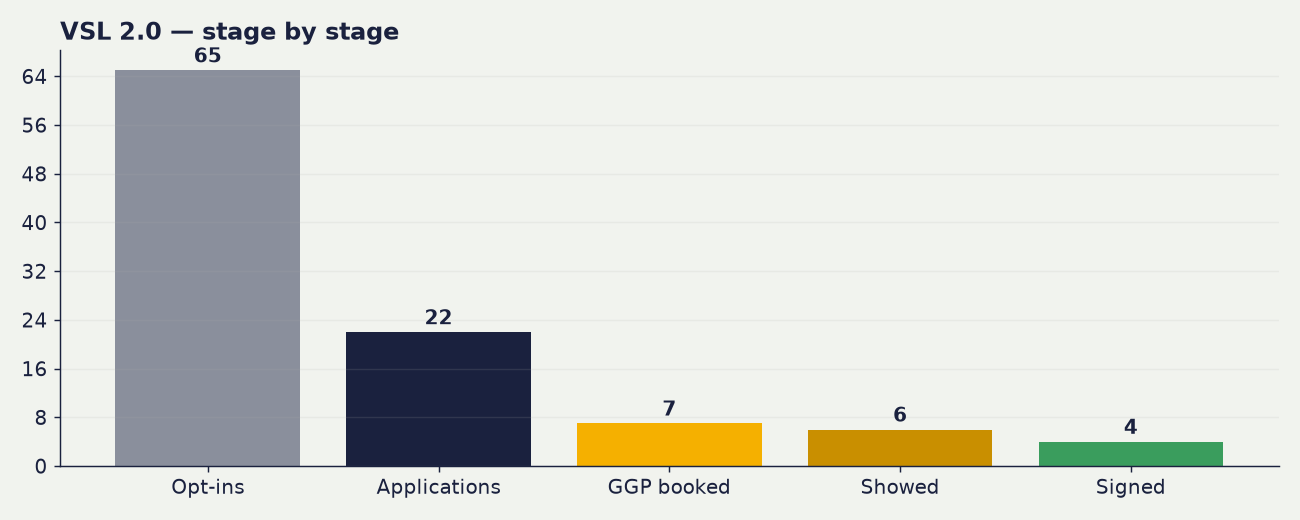
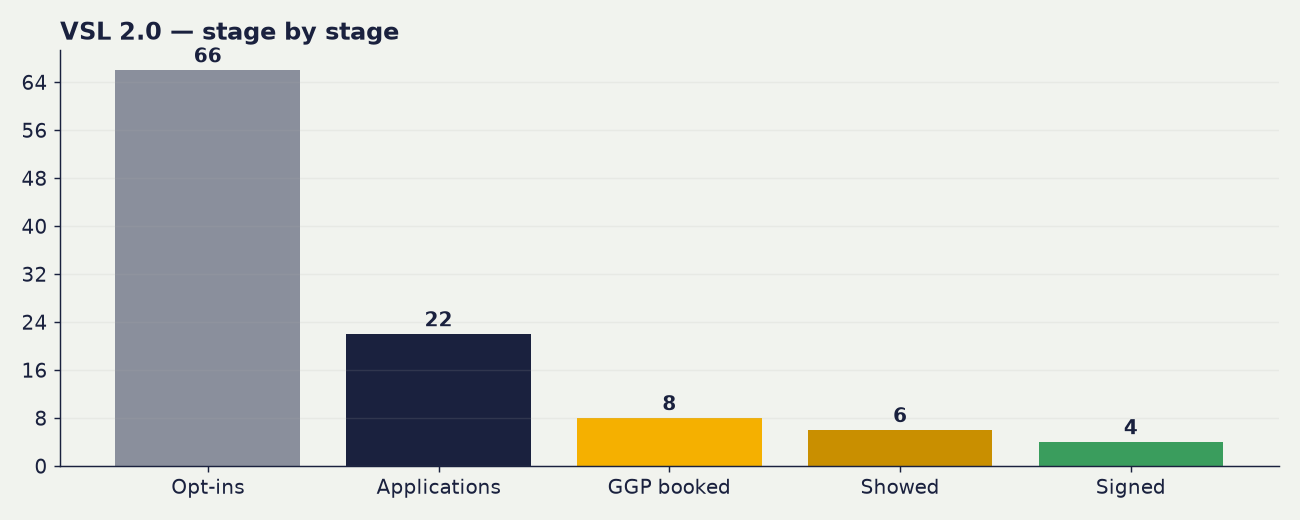
nightly dashboard update 2026-10-04 03:22

diff --git a/content/index.md b/content/index.md
@@ -1,17 +1,17 @@
 # 📈 VSL Funnel Dashboard
 
-_Signups from Stripe (live API). Show-ups from the SBC team Tick Sheet. Spend from Meta. Updated 3 Oct 2026, 03:22 BST, rebuilds nightly._
+_Signups from Stripe (live API). Show-ups from the SBC team Tick Sheet. Spend from Meta. Updated 4 Oct 2026, 03:22 BST, rebuilds nightly._
 
 ## 🎯 The headline — both funnels combined
 
 | | |
 |---|---|
-| **Blended CPA** | **£610** |
-| Total spend | **£8,534.84** |
+| **Blended CPA** | **£621** |
+| Total spend | **£8,691.18** |
 | Total signups | **14** |
 | Who signed | Adam Luke, Alexandru Mardari, C Beech, Conor, Daniel  Steer, Georgia, Harry, Joe Gray-Misiuk, Kirstie Hall, Matt, Musa Rahat, Ross gibbins, Tarik Merrett, Zeeshan Ahmed |
 
-> £8,535 spent → 14 signed = **£610 blended cost per signup.** VSL 1.0 (mass avatar) and VSL 2.0 (upgraded avatar) share the load: cheap high-volume + premium low-volume blend into one true acquisition cost.
+> £8,691 spent → 14 signed = **£621 blended cost per signup.** VSL 1.0 (mass avatar) and VSL 2.0 (upgraded avatar) share the load: cheap high-volume + premium low-volume blend into one true acquisition cost.
 
 ---
 
@@ -19,13 +19,13 @@ _Signups from Stripe (live API). Show-ups from the SBC team Tick Sheet. Spend fr
 
 | Metric | VSL 1.0 | VSL 2.0 | Combined |
 |---|---|---|---|
-| 🎯 **CPA** | **£581** | **£682** | **£610** |
+| 🎯 **CPA** | **£591** | **£695** | **£621** |
 | 🤝 Signed | 10 | 4 | **14** |
-| 💷 Spent | £5,805.64 | £2,729.20 | **£8,534.84** |
+| 💷 Spent | £5,910.72 | £2,780.46 | **£8,691.18** |
 | ✅ Showed up | 22 | 6 | **28** |
-| 📞 GGPs booked | 48 | 7 | **55** |
+| 📞 GGPs booked | 48 | 8 | **56** |
 | 📝 Applications | 112 | 22 | **134** |
-| 👀 Opt-ins | 205 | 65 | **270** |
+| 👀 Opt-ins | 205 | 66 | **271** |
 
 ---
 
@@ -39,7 +39,7 @@ _Signups from Stripe (live API). Show-ups from the SBC team Tick Sheet. Spend fr
 
 | Metric | 🇬🇧🇮🇪 UK & Ireland | 🇺🇸🇨🇦 US & Canada | Total |
 |---|---|---|---|
-| 💷 Spent | £5,361.73 | £443.91 | **£5,805.64** |
+| 💷 Spent | £5,466.81 | £443.91 | **£5,910.72** |
 | 👀 Opt-ins | 162 | 38 | **205** |
 | 📝 Applications | 96 | 12 | **113** |
 | 📞 GGPs booked | 41 | 7 | **49** |
@@ -62,17 +62,17 @@ _Signups from Stripe (live API). Show-ups from the SBC team Tick Sheet. Spend fr
 
 | Cost | 🇬🇧🇮🇪 UK & Ireland | 🇺🇸🇨🇦 US & Canada | Total |
 |---|---|---|---|
-| Cost per application | £56 | £37 | **£51** |
-| Cost per GGP booked | £131 | £63 | **£118** |
-| Cost per show-up | £255 | £222 | **£252** |
-| **Cost per acquisition (CPA)** | **£536** | **—** | **£581** |
+| Cost per application | £57 | £37 | **£52** |
+| Cost per GGP booked | £133 | £63 | **£121** |
+| Cost per show-up | £260 | £222 | **£257** |
+| **Cost per acquisition (CPA)** | **£547** | **—** | **£591** |
 
 **Ad spend split**
 
 | Band | 🇬🇧🇮🇪 UK & Ireland | 🇺🇸🇨🇦 US & Canada | Total |
 |---|---|---|---|
-| 🔥 Warm | £3,284.08 | £222.02 | **£3,506.10** |
-| ❄ Cold | £2,077.65 | £221.89 | **£2,299.54** |
+| 🔥 Warm | £3,347.32 | £222.02 | **£3,569.34** |
+| ❄ Cold | £2,119.49 | £221.89 | **£2,341.38** |
 
 > 🤝 Signed — Adam Luke, Alexandru Mardari, C Beech, Daniel  Steer, Joe Gray-Misiuk, Kirstie Hall, Musa Rahat, Ross gibbins, Tarik Merrett, Zeeshan Ahmed
 
@@ -91,10 +91,10 @@ _Signups from Stripe (live API). Show-ups from the SBC team Tick Sheet. Spend fr
 
 | Metric | Value |
 |---|---|
-| 💷 Spent | **£2,729.20** |
-| 👀 Opt-ins | **65** |
+| 💷 Spent | **£2,780.46** |
+| 👀 Opt-ins | **66** |
 | 📝 Applications | **22** |
-| 📞 GGPs booked | **7** |
+| 📞 GGPs booked | **8** |
 | ✅ Showed up | **6** |
 | 🤝 Signed | **4** (Conor, Georgia, Harry, Matt) |
 
@@ -102,9 +102,9 @@ _Signups from Stripe (live API). Show-ups from the SBC team Tick Sheet. Spend fr
 
 | Step | Rate |
 |---|---|
-| Opt-in → Application | 34% |
-| Application → GGP booked | 32% |
-| GGP show rate | 86% |
+| Opt-in → Application | 33% |
+| Application → GGP booked | 36% |
+| GGP show rate | 75% |
 | Show → Sign | 67% |
 | Application → Sign | 18% |
 
@@ -112,14 +112,14 @@ _Signups from Stripe (live API). Show-ups from the SBC team Tick Sheet. Spend fr
 
 | Cost | Value |
 |---|---|
-| Cost per application | £124 |
-| Cost per GGP booked | £390 |
-| Cost per show-up | £455 |
-| **Cost per acquisition (CPA)** | **£682** |
+| Cost per application | £126 |
+| Cost per GGP booked | £348 |
+| Cost per show-up | £463 |
+| **Cost per acquisition (CPA)** | **£695** |
 
 **Ad spend split**
 
-- 🔥 Warm: £1,850.04
+- 🔥 Warm: £1,901.30
 - ❄ Cold: £879.16
 
 ![VSL 2.0 — upgraded avatar — funnel](vsl2_funnel_stages.png)
@@ -137,4 +137,4 @@ _Signups from Stripe (live API). Show-ups from the SBC team Tick Sheet. Spend fr
 > _Applications + GGP-booked are TRUE daily series (from submission timestamps). Opt-ins have no per-day source in the Opt-ins tab, so opt-ins appear as a total only, not a daily line._
 
 ---
-<!-- Auto-generated by the VSL dashboard nightly pipeline. Do not edit by hand. 3 Oct 2026, 03:22 BST -->
+<!-- Auto-generated by the VSL dashboard nightly pipeline. Do not edit by hand. 4 Oct 2026, 03:22 BST -->
